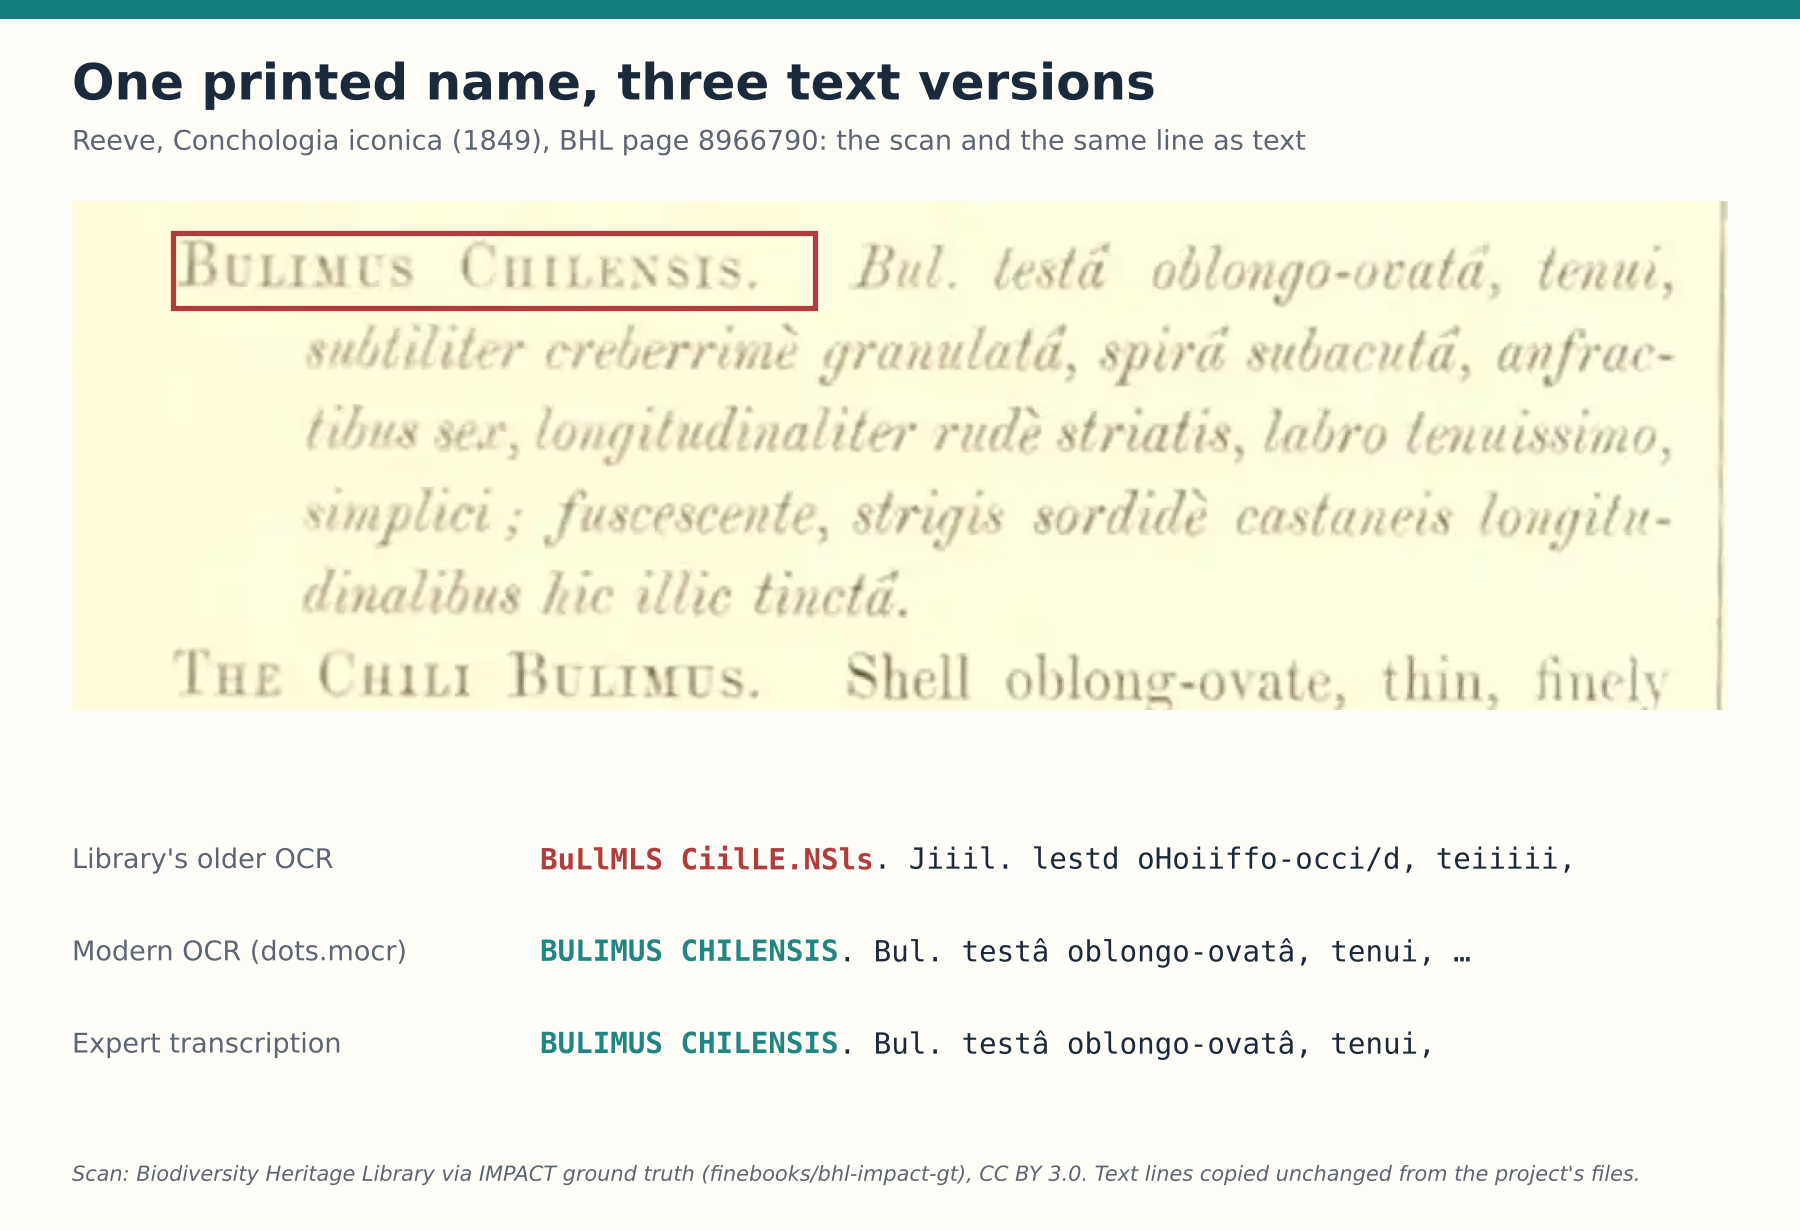
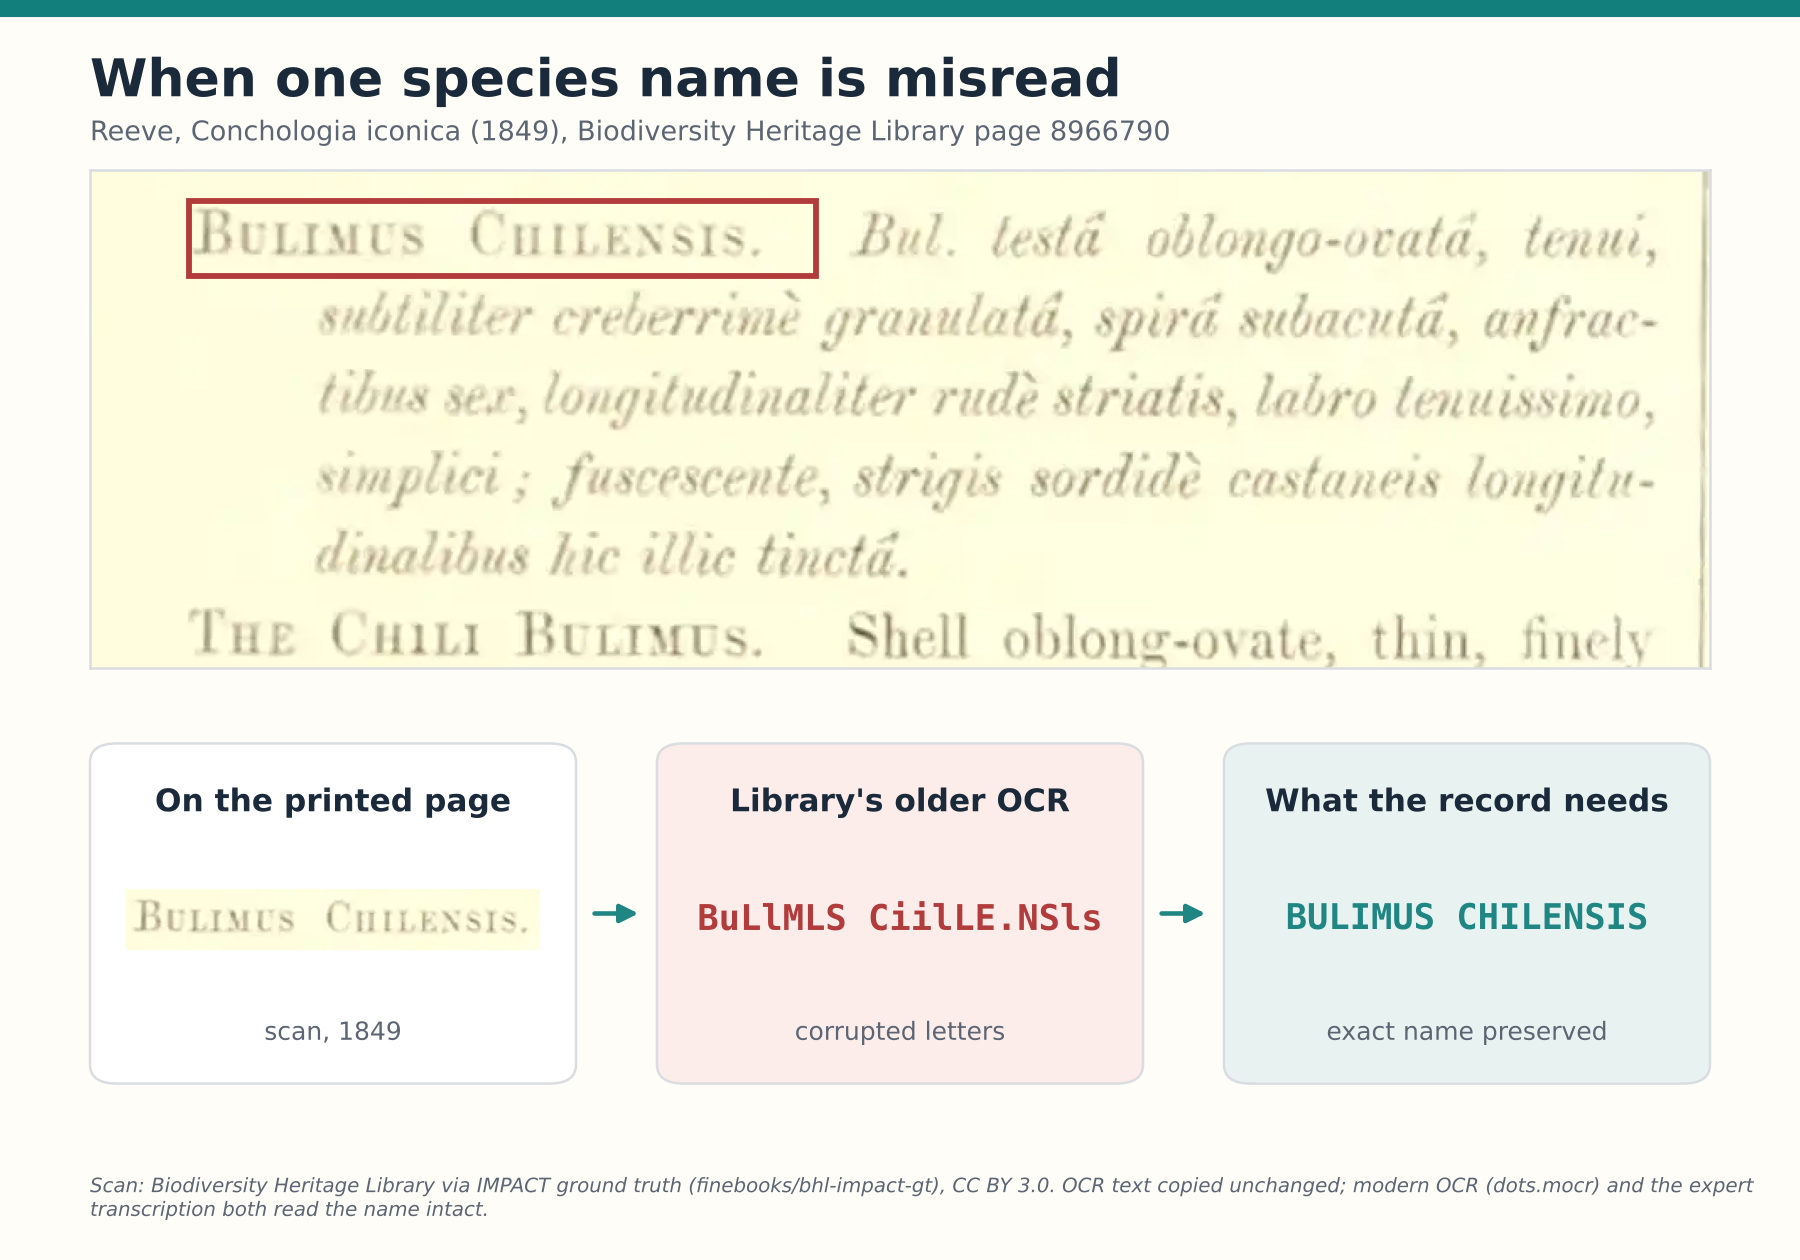
README figure 1: scan on top, three cards below (printed name cut from the scan, old OCR, record)
Claude-Session: https://claude.ai/code/session_01FpRTMnjiMBeEVFQdtP5CXn

diff --git a/src/plot_fig01_scan.py b/src/plot_fig01_scan.py
@@ -1,13 +1,15 @@
-"""README figure 1 from the real page: the printed name on the scan and the same line in three text versions.
+"""README figure 1 from the real page: the scan on top, three cards below (printed name, old OCR, what the
+record needs), in the style of the author's original card figure.
 
     python src/plot_fig01_scan.py
     -> docs/assets/overview/fig01_scan_name.png      (English labels)
     -> docs/assets/overview/fig01_scan_name_zh.png   (Chinese labels)
 
 Scan: Reeve, Conchologia iconica vol. 5 (1849), BHL page 8966790, image from the IMPACT ground-truth set
-(finebooks/bhl-impact-gt, CC BY 3.0; data/cache/images/8966790.webp). The three text lines are copied from
-data/sample/{legacy,modern_dots-mocr,expert}/8966790.txt, never retyped. Replaces the schematic
-fig01_misread_name.png (the author asked for the real page, 2026-11-23).
+(finebooks/bhl-impact-gt, CC BY 3.0; data/cache/images/8966790.webp). The OCR string and the expert reading
+are copied from data/sample/{legacy,expert}/8966790.txt, never retyped. Names are set in a monospaced font
+so that l and I stay distinguishable. Replaces the schematic fig01_misread_name.png (the author asked for
+the real page, 2026-11-23).
 """
 from __future__ import annotations
 
@@ -16,7 +18,7 @@ from pathlib import Path
 import matplotlib
 matplotlib.use("Agg")
 import matplotlib.pyplot as plt  # noqa: E402
-from matplotlib.patches import Rectangle  # noqa: E402
+from matplotlib.patches import FancyArrowPatch, FancyBboxPatch, Rectangle  # noqa: E402
 from PIL import Image  # noqa: E402
 
 ROOT = Path(__file__).resolve().parents[1]
@@ -24,62 +26,89 @@ OUT = ROOT / "docs" / "assets" / "overview"
 PAGE = "8966790"
 CROP = (330, 590, 1290, 885)              # left column: species heading, Latin diagnosis, English name
 NAME_BOX = (388, 608, 760, 652)           # "BULIMUS CHILENSIS." on the scan, page pixels
-BG, BAND, NAVY, GREY = "#fffdf8", "#137f7d", "#1b2a3a", "#5b6573"
+BG, BAND, NAVY, GREY, EDGE = "#fffdf8", "#137f7d", "#1b2a3a", "#5b6573", "#d9dde2"
 RED, TEAL = "#b23b3b", "#1f8683"
+FILL = ["#ffffff", "#fcecea", "#e8f3f1"]
+MONO = "DejaVu Sans Mono"
 
 LABELS = {
-    "en": {"title": "One printed name, three text versions",
-           "sub": "Reeve, Conchologia iconica (1849), BHL page 8966790: the scan and the same line as text",
-           "rows": ["Library's older OCR", "Modern OCR (dots.mocr)", "Expert transcription"],
-           "note": "Scan: Biodiversity Heritage Library via IMPACT ground truth (finebooks/bhl-impact-gt), "
-                   "CC BY 3.0. Text lines copied unchanged from the project's files."},
-    "zh": {"title": "同一个印刷学名，三种文字版本",
-           "sub": "Reeve《Conchologia iconica》（1849），BHL 第 8966790 页：扫描原图与同一行文字",
-           "rows": ["图书馆旧 OCR", "现代 OCR（dots.mocr）", "专家转录"],
-           "note": "扫描图：Biodiversity Heritage Library，经 IMPACT 专家转录集（finebooks/bhl-impact-gt），"
-                   "CC BY 3.0。文字行从项目文件原样复制。"},
+    "en": {"font": "DejaVu Sans",
+           "title": "When one species name is misread",
+           "sub": "Reeve, Conchologia iconica (1849), Biodiversity Heritage Library page 8966790",
+           "cards": [("On the printed page", "scan, 1849"), ("Library's older OCR", "corrupted letters"),
+                     ("What the record needs", "exact name preserved")],
+           "note": "Scan: Biodiversity Heritage Library via IMPACT ground truth (finebooks/bhl-impact-gt), CC BY 3.0. "
+                   "OCR text copied unchanged; modern OCR (dots.mocr) and the expert transcription both read the name intact."},
+    "zh": {"font": "WenQuanYi Zen Hei",
+           "title": "一个学名被读错时",
+           "sub": "Reeve《Conchologia iconica》（1849），Biodiversity Heritage Library 第 8966790 页",
+           "cards": [("印刷页上", "扫描原图，1849 年"), ("图书馆旧 OCR", "字母被读坏"), ("数据记录需要的", "学名完整保留")],
+           "note": "扫描图：Biodiversity Heritage Library，经 IMPACT 专家转录集（finebooks/bhl-impact-gt），CC BY 3.0。"
+                   "OCR 文字原样复制；现代 OCR（dots.mocr）和专家转录都把学名读对了。"},
 }
 
 
-def first_line(version: str, key: str) -> str:
+def find(version: str, key: str) -> str:
     for line in (ROOT / "data" / "sample" / version / f"{PAGE}.txt").read_text(encoding="utf-8").splitlines():
         if key in line:
-            return line.strip()
+            return line
     raise ValueError(f"{key} not in {version}")
 
 
 def draw(lang: str) -> Path:
     lab = LABELS[lang]
-    cjk = "WenQuanYi Zen Hei" if lang == "zh" else "DejaVu Sans"
-    legacy = first_line("legacy", "CiilLE")
-    modern = first_line("modern_dots-mocr", "CHILENSIS")
-    modern = modern[:len("BULIMUS CHILENSIS. Bul. testâ oblongo-ovatâ, tenui,")] + " …"
-    expert = first_line("expert", "CHILENSIS")
-    rows = [(legacy, "BuLlMLS CiilLE.NSls", RED), (modern, "BULIMUS CHILENSIS", TEAL), (expert, "BULIMUS CHILENSIS", TEAL)]
+    font = lab["font"]
+    legacy = find("legacy", "CiilLE")
+    legacy_name = legacy[legacy.index("BuL"):legacy.index("CiilLE") + len("CiilLE.NSls")]
+    expert = find("expert", "CHILENSIS")
+    expert_name = expert[:expert.index("CHILENSIS") + len("CHILENSIS")]
+    page = Image.open(ROOT / "data" / "cache" / "images" / f"{PAGE}.webp").convert("RGB")
 
-    fig = plt.figure(figsize=(12, 8.2), dpi=150, facecolor=BG)
-    fig.patches.append(Rectangle((0, 0.985), 1, 0.015, transform=fig.transFigure, color=BAND))
-    fig.text(0.04, 0.95, lab["title"], fontsize=24, fontweight="bold", color=NAVY, va="top", family=cjk)
-    fig.text(0.04, 0.895, lab["sub"], fontsize=13, color=GREY, va="top", family=cjk)
+    H = 8.4
+    fig = plt.figure(figsize=(12, H), dpi=150, facecolor=BG)
+    fig.patches.append(Rectangle((0, 0.987), 1, 0.013, transform=fig.transFigure, color=BAND))
+    fig.text(0.05, 0.955, lab["title"], fontsize=25, fontweight="bold", color=NAVY, va="top", family=font)
+    fig.text(0.05, 0.905, lab["sub"], fontsize=13, color=GREY, va="top", family=font)
 
-    im = Image.open(ROOT / "data" / "cache" / "images" / f"{PAGE}.webp").convert("RGB").crop(CROP)
-    ax = fig.add_axes([0.04, 0.40, 0.92, 0.46])
-    ax.imshow(im)
+    # the scan, large, with a frame and the name boxed
+    sh = 0.90 * 12 * (CROP[3] - CROP[1]) / (CROP[2] - CROP[0]) / H     # axes height that fits the crop
+    ax = fig.add_axes([0.05, 0.865 - sh, 0.90, sh])
+    ax.imshow(page.crop(CROP))
     x0, y0, x1, y1 = NAME_BOX
-    ax.add_patch(Rectangle((x0 - CROP[0], y0 - CROP[1]), x1 - x0, y1 - y0, fill=False, ec=RED, lw=2.5))
-    ax.set_axis_off()
+    ax.add_patch(Rectangle((x0 - CROP[0], y0 - CROP[1]), x1 - x0, y1 - y0, fill=False, ec=RED, lw=2.8))
+    ax.set_xticks([]); ax.set_yticks([])
+    for s in ax.spines.values():
+        s.set_color(EDGE); s.set_linewidth(1.2)
 
-    for i, (line, name, colour) in enumerate(rows):
-        y = 0.30 - i * 0.075
-        fig.text(0.04, y, lab["rows"][i], fontsize=13, color=GREY, va="center", family=cjk)
-        rest = line[len(name):] if line.startswith(name) else ""
-        t = fig.text(0.30, y, name if rest else line, fontsize=14, color=colour, va="center",
-                     family="DejaVu Sans Mono", fontweight="bold")
-        if rest:
-            fig.canvas.draw()
-            bb = t.get_window_extent().transformed(fig.transFigure.inverted())
-            fig.text(bb.x1, y, rest, fontsize=14, color=NAVY, va="center", family="DejaVu Sans Mono")
-    fig.text(0.04, 0.04, lab["note"], fontsize=10, color=GREY, style="italic", family=cjk)
+    # three cards
+    w, h, gap, y = 0.27, 0.27, 0.045, 0.14
+    xs = [0.05, 0.05 + w + gap, 0.05 + 2 * (w + gap)]
+    for i, x in enumerate(xs):
+        fig.patches.append(FancyBboxPatch((x, y), w, h, boxstyle="round,pad=0,rounding_size=0.015",
+                                          transform=fig.transFigure, fc=FILL[i], ec=EDGE, lw=1.2))
+        head, foot = lab["cards"][i]
+        fig.text(x + w / 2, y + h - 0.035, head, zorder=5, ha="center", va="top", fontsize=15, fontweight="bold",
+                 color=NAVY, family=font)
+        fig.text(x + w / 2, y + 0.03, foot, zorder=5, ha="center", va="bottom", fontsize=12, color=GREY, family=font)
+        if i < 2:
+            fig.patches.append(FancyArrowPatch((x + w + 0.008, y + h / 2), (x + w + gap - 0.008, y + h / 2),
+                                               transform=fig.transFigure, arrowstyle="-|>", mutation_scale=18,
+                                               color=TEAL, lw=2.2))
+    # card 1: the name as printed, cut from the scan
+    nx0, ny0, nx1, ny1 = NAME_BOX
+    name_img = page.crop((nx0 - 4, ny0 - 4, nx1 - 22, ny1 + 4))
+    ar = name_img.width / name_img.height
+    iw = w - 0.04
+    ih = iw / ar * (12 / H)
+    ia = fig.add_axes([xs[0] + 0.02, y + h / 2 - ih / 2 - 0.005, iw, ih])
+    ia.imshow(name_img); ia.set_axis_off(); ia.set_zorder(5)          # above the card shape
+    # cards 2 and 3: the strings, copied from the files
+    fig.text(xs[1] + w / 2, y + h / 2 - 0.005, legacy_name, zorder=5, ha="center", va="center", fontsize=17,
+             fontweight="bold", color=RED, family=MONO)
+    fig.text(xs[2] + w / 2, y + h / 2 - 0.005, expert_name, zorder=5, ha="center", va="center", fontsize=17,
+             fontweight="bold", color=TEAL, family=MONO)
+
+    fig.text(0.05, 0.035, lab["note"], fontsize=9.5, color=GREY, style="italic", family=font, wrap=True)
     name = "fig01_scan_name.png" if lang == "en" else "fig01_scan_name_zh.png"
     fig.savefig(OUT / name, facecolor=BG)
     plt.close(fig)

diff --git a/README.md b/README.md
@@ -22,9 +22,9 @@ In an 1849 book on shells, *Conchologia iconica*, a species appears in print as 
 
 On the surface, the digitization worked. The book is online, and the page is searchable. Hand that text to a large language model, and it can pinpoint the exact line where the species is mentioned. Yet if the model faithfully copies what the OCR gave it, the database still ends up with the wrong name.
 
-![The printed name BULIMUS CHILENSIS on the 1849 scan, and the same line in the library's older OCR, a modern OCR model and the expert transcription](docs/assets/overview/fig01_scan_name.png)
+![The printed name BULIMUS CHILENSIS on the 1849 scan, the library's older OCR reading BuLlMLS CiilLE.NSls, and the exact name a record needs](docs/assets/overview/fig01_scan_name.png)
 
-*The real page (BHL page 8966790): the scan, then the same line in three text versions, copied unchanged. Scan from the Biodiversity Heritage Library via the IMPACT ground-truth set, CC BY 3.0.*
+*The real page (BHL page 8966790). The OCR text is copied unchanged from the library's file; modern OCR and the expert transcription both read the name intact. Scan from the Biodiversity Heritage Library via the IMPACT ground-truth set, CC BY 3.0.*
 
 That gap sits inside roughly 64 million scanned pages in the Biodiversity Heritage Library. Historical natural-history books record species names, collection localities, researchers, and dates of observations. OCR and large language models can help turn those pages into structured data for modern databases such as GBIF. Yet pulling text off a page is not the same as producing a record another person can trust: a small error upstream rarely stays small—it compounds down the line. A single misread character can corrupt a species name and break its downstream database match; even a cleanly extracted historical name may fail to resolve against today's taxonomy; and a plausible-looking result may arrive without evidence anyone can verify.
 

diff --git a/README_zh.md b/README_zh.md
@@ -22,9 +22,9 @@
 
 表面上看，数字化已经完成：书已上网，页面也能搜索。把这段文字交给大语言模型，它甚至能准确找出这个学名所在的行。可只要模型忠实复制了上游的错字，最后存进数据库的依然是一个错误名称。
 
-![1849 年扫描页上的印刷学名 BULIMUS CHILENSIS，以及同一行在图书馆旧 OCR、现代 OCR 和专家转录中的样子](docs/assets/overview/fig01_scan_name_zh.png)
+![1849 年扫描页上的印刷学名 BULIMUS CHILENSIS、图书馆旧 OCR 读成的 BuLlMLS CiilLE.NSls，以及数据记录需要的准确学名](docs/assets/overview/fig01_scan_name_zh.png)
 
-*真实页面（BHL 第 8966790 页）：上面是扫描原图，下面是同一行的三种文字版本，均原样复制。扫描图来自 Biodiversity Heritage Library，经 IMPACT 专家转录集，CC BY 3.0。*
+*真实页面（BHL 第 8966790 页）。OCR 文字从图书馆的文件原样复制；现代 OCR 和专家转录都把学名读对了。扫描图来自 Biodiversity Heritage Library，经 IMPACT 专家转录集，CC BY 3.0。*
 
 同样的隐患藏在生物多样性遗产图书馆（BHL）约 6,400 万页历史文献里。这些历史自然科学著作记录了大量物种名称、采集地点、研究者和观察日期。OCR 和大语言模型能帮我们把书页转成结构化数据，汇入 GBIF 等现代数据库。但把文字从纸面搬到屏幕，不等于产出了一条可信的科学记录——上游的一处小错，往往会在下游不断放大。OCR 读错一个字母，不仅会让学名失真，还会直接导致后续的检索和数据库关联失效；即便上游文字提取完全无误，历史名称也可能因分类学变迁而对不上今天的名录；而一条看似合理的结果，如果缺少可核查的证据，研究者依然无从验证。
 
